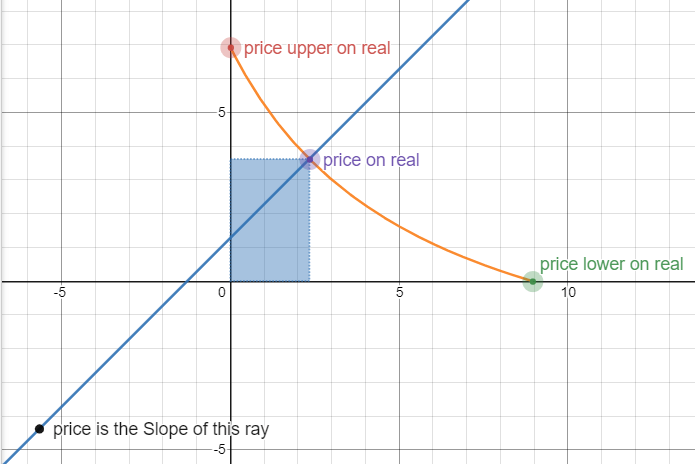
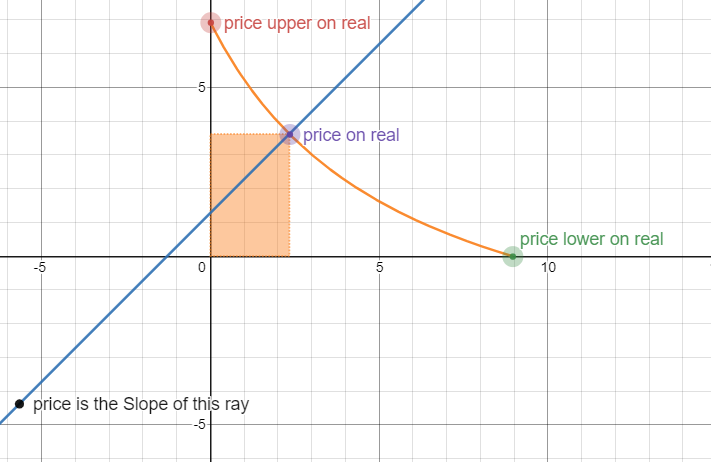
reserves change

diff --git a/defi/Uniswap-V3/whitepaper/understandV3Witepaper.md b/defi/Uniswap-V3/whitepaper/understandV3Witepaper.md
@@ -63,6 +63,8 @@ img03: real liquidity
 
 ## V3 的核心公式
 
+### 核心公式的推导
+
 V3 的核心公式，其实刚才已经出现了，我们只需要将虚拟流动性具体算出来就好了。为了方便后面的计算，我们将代表流动性的 `k` 换成 `𝐿^2` 即 L 的平方。
 
 现在我们回到图 02，可以看出 `x_virtual` 的长度实际是 `price upper` 点的 x，而 `y_virtual` 的长度实际上是 `price lower` 点的 y。所以在确定价格上下区间的情况下，我们可以利用价格的公式 `y = p*x` 和 `xy=L^2` 来换算虚拟流动性的长度。(这里为了变量名称统一，将价格点统一称为 upper 和 lower，白皮书中是 a 和 b，不影响结果。)
@@ -78,4 +80,50 @@ y_virtual = L * √p_lower
 
 ```math
 (x + L / √p_upper) * (y + L * √p_lower) = L^2
-``` 
+```
+
+可以看到，公式中是将 `p_upper` 和 `p_lower` 作为已知的变量，所以在 V3 中添加流动性，是需要用户自己设置需要做市的价格区间的。V3 中不论是否是同一用户，只要价格区间不同（或手续费水平不同，后面展开讨论）都是不同的流动性头寸 `position`。
+
+> 在 V2 中代表用户提供了流动性的凭证是 ERC20 类型的 LP token （liquidity provider token），因为所有流动性都可以被认为是价格区间为 (0, ∞) 的流动性，因此可以用同质化代币流通。但 V3 中每个流动性可能价格区间都不同，因此需要用 ERC721 类型（NFT）的非同质化代币表示。
+
+需要注意的是，当池子中的交易价格，移动到做市的价格区间之外，我们注入的流动性将不再赚取手续费，也就是未激活状态，而当价格再次回到区间内时，流动性再次变为激活状态。
+
+### 流动性资产的变化
+
+当价格变化时，流动性内的资产 Y 和资产 X 数量会发生变化，在 V2 中这个变化会引起无常损失，而在 V3 中，它的影响会被放大很多倍。因为当价格移动到你设置的区间以外的时候，你的流动性头寸中，其实已经变为了单一品种的资产，而另一个资产数量已经清零。
+
+![reserves change](./img/understanding-04-reserveschange.png)
+img04: reserves change
+
+观察图中橙色区域的变化可以很容易理解这点，当价格不断上涨，x 的数值是不断减小，直至到达价格上限时，x 完全清零。这一点和 V2 差别很大，其原因就是因为 V3 引入了虚拟流动性，也是为了提高资金利用率而需要承担的风险。
+
+#### 价格区间的风险与收益
+
+当出现价格在区间以外的情况，此时流动性头寸不但不能继续赚取手续费，同时必定全部变成了单一资产，且一定是当时市场中处于弱势一方的资产。比如当资产 Y 涨价，将会有大量订单用资产 X 从池子中换取 Y，于是池子中的 X 越来越多，而 Y 最终会清零。因为 AMM 自动做市，实际上也是一种被动的做市，永远需要和市场中的订单做对手盘。
+
+也就是说，价格区间越窄，价格移出区间的概率越大，风险越大，而区间越宽，风险就越小。如果你厌恶这种价格移出区间的风险，那么大可直接将价格区间设置为 (0, ∞) ，官方的 UI 界面也支持这个操作，那么你就会得到一个完全没有虚拟流动性，和 V2 差不多的全价格区间流动性了。
+
+当然这么做的代价就是，资金利用率和 V2 也没差别，非常的低。这就相当于你将资金均匀分散到一个很长的价格轴上，虽然每次交易都能赚取手续费，但由于资金在每个价格点上被摊薄的太厉害，导致每次赚取手续费的占比权重非常低。
+
+#### 添加流动性和移除流动性
+
+V2 中添加流动性，会先计算出你要提供的资产比例（x 和 y 的比值），这个比值很好算，就是池子中 x 和 y 的比，然后在根据你输入的一种资产数量，计算另一种资产数量。但 V3 引入了价格区间的概念，使得计算变得比较复杂。
+
+让我们回忆一下刚才计算虚拟流动性的过程，实际上我们已经将计算两种流动性的公式写出来了：
+
+```math
+x = L / √p \n
+y = L * √p
+```
+
+x 和 y 就是我们需要添加的流动性数量，p 是当前的价格，现在其实只需要知道 L 的数值就可以了。??
+
+#### 限价单
+
+事实上，这种资产 X 全部转为资产 Y 的特性并不能算是缺陷，反而是一种可以利用的特性。比如当我们与市场看法相反的时候，市场大部分人看好 Y，而你却看空 Y，于是你故意在某个很窄的价格区间，
+
+## 手续费
+
+## 预言机
+
+## 闪电贷
